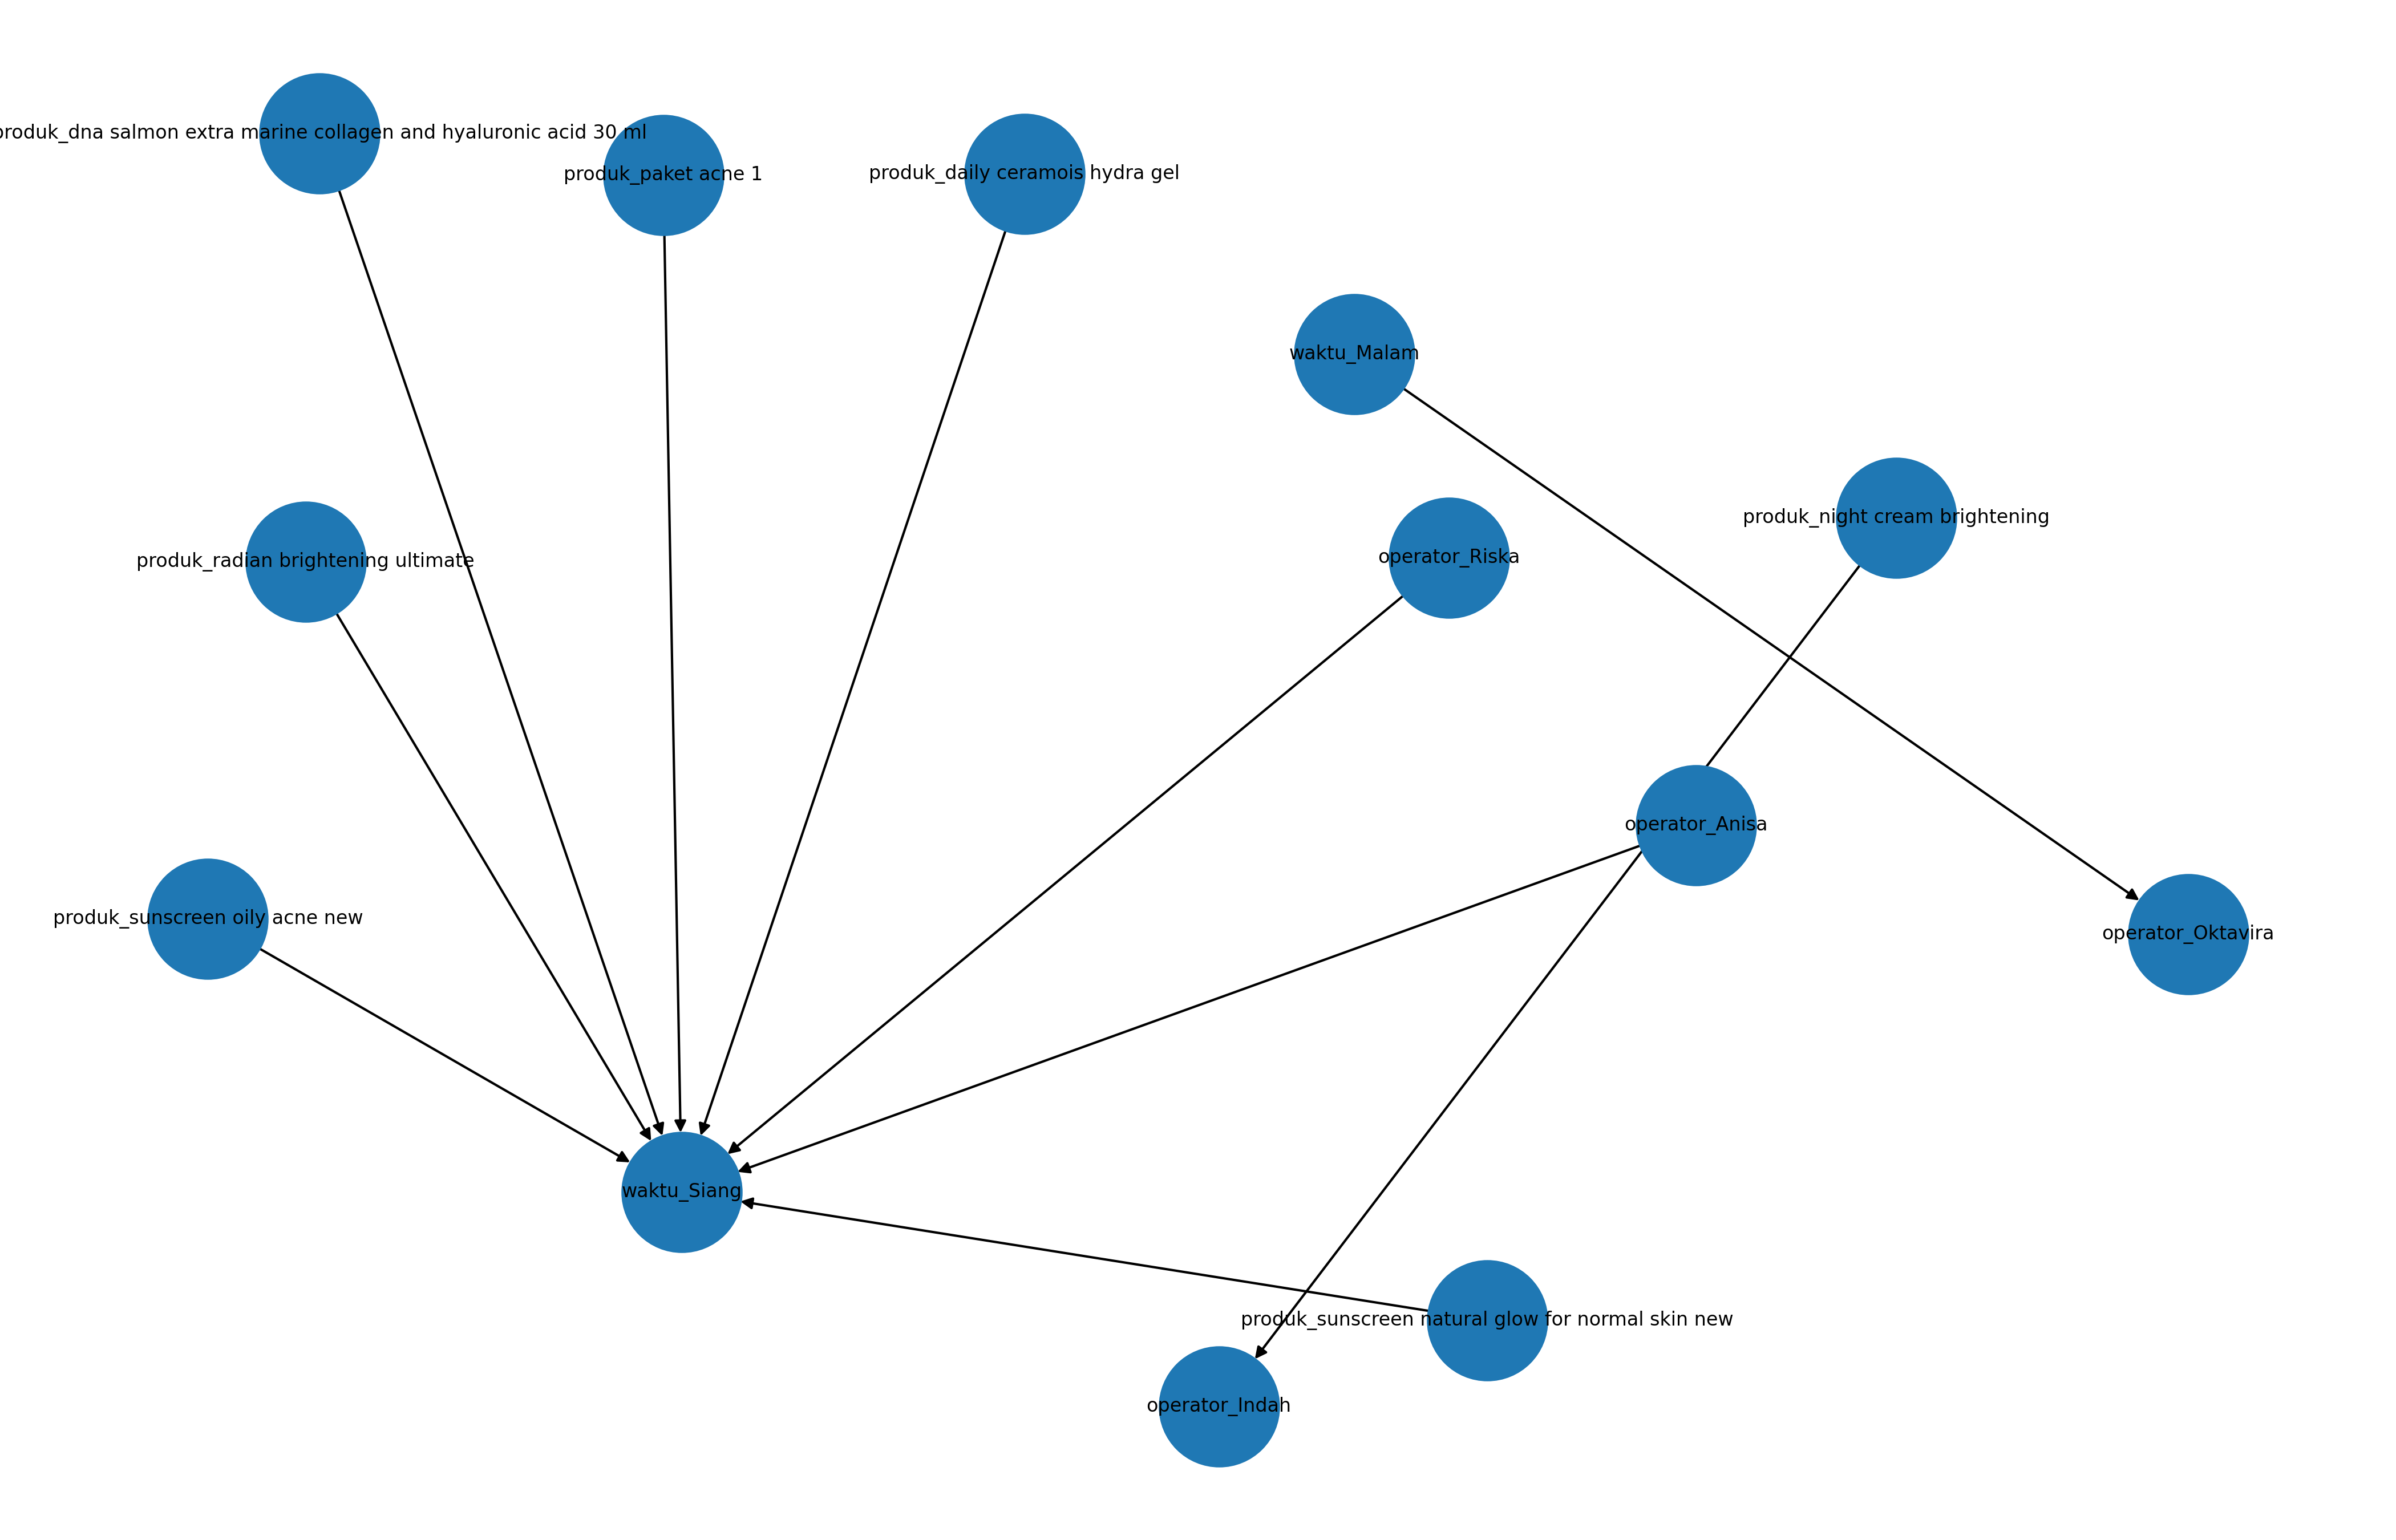
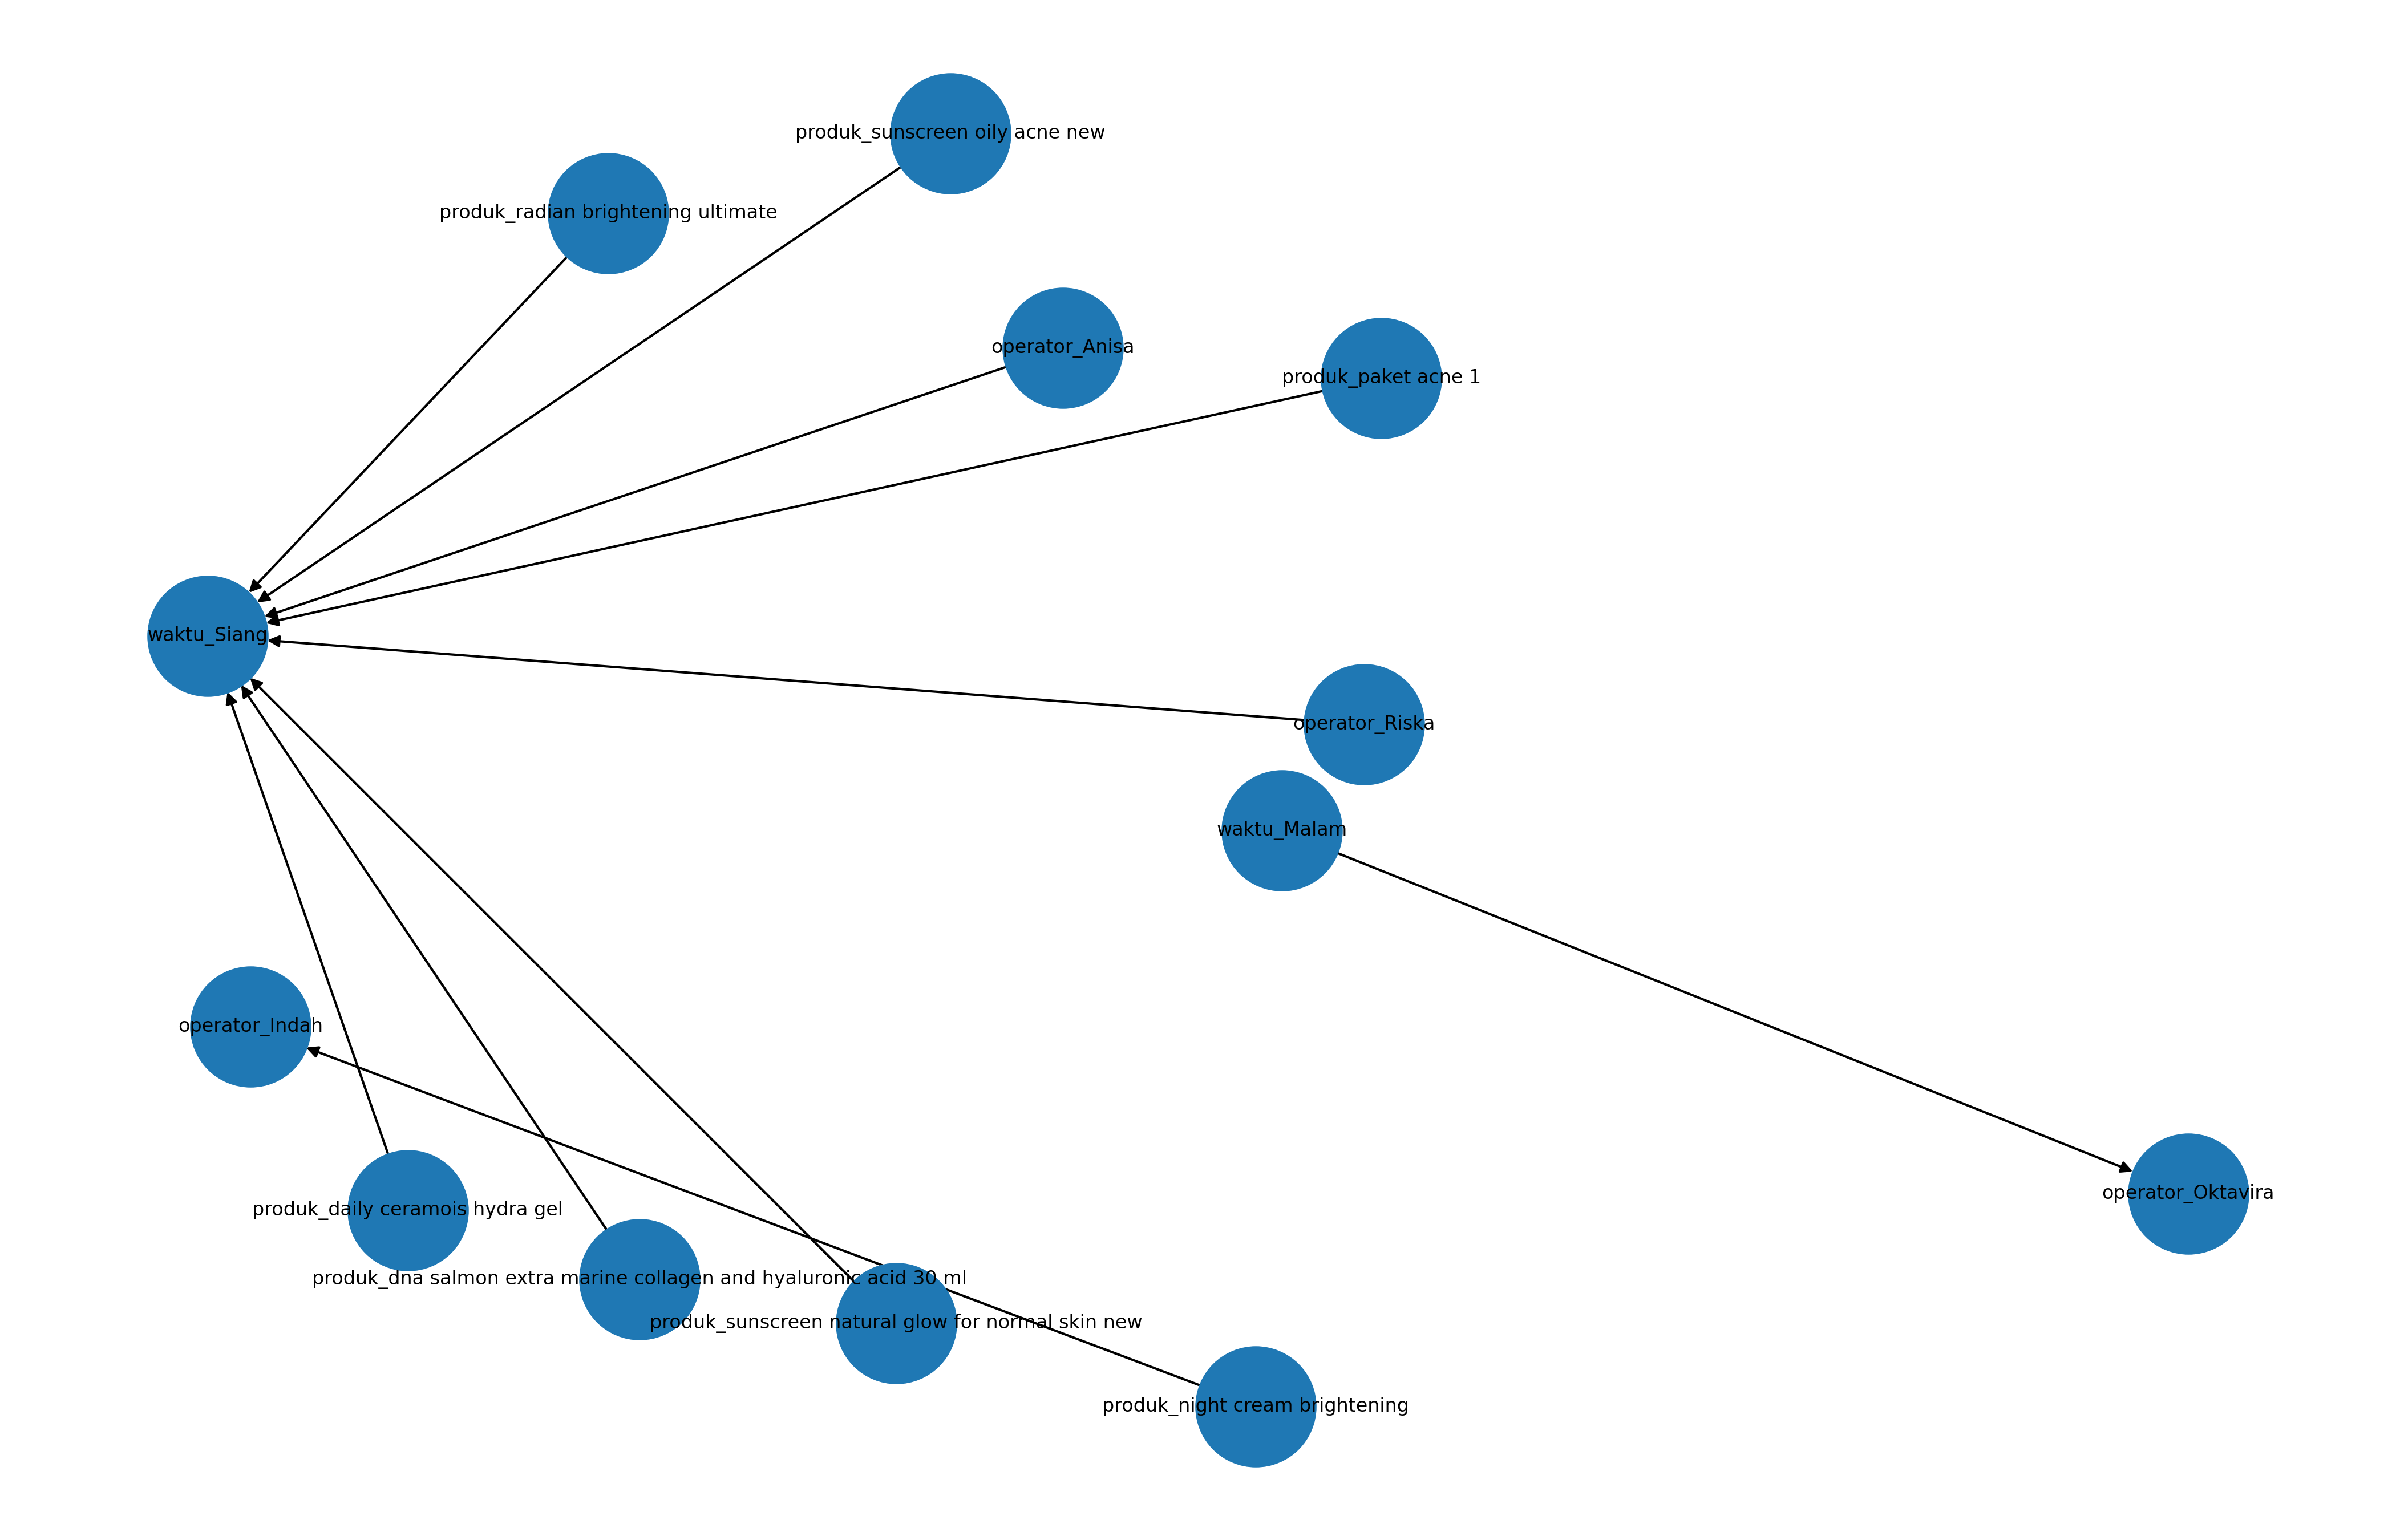
perbaikan penjelasan

diff --git a/preprocessing.py b/preprocessing.py
@@ -8,14 +8,13 @@ select_column = [
     "Tanggal",
     "Waktu",
     "Operator",
-    #"Metode Pembayaran",
     "Detail Produk",
     "Penjualan Bersih"
 ]
 
 df = df[select_column].copy()
 
-print("=== SELECTED COLUMN ===")
+print("---select column---")
 print(df.columns.tolist())
 
 # rename kolom
@@ -24,15 +23,15 @@ df = df.rename(columns={
     "Tanggal": "tanggal",
     "Waktu": "waktu",
     "Operator": "operator",
-    #"Metode Pembayaran": "metode_pembayaran",
     "Detail Produk": "detail_produk",
     "Penjualan Bersih": "penjualan_bersih"
 })
 
-print("=== KOLOM SETELAH RENAME ===")
+print("---column after rename---")
 print(df.columns.tolist())
 
 # Hapus operator yang penjualannya sedikit
+# mengurangi imbalace data yang tidak representatif
 df["operator"] = df["operator"].astype(str).str.strip().str.lower()
 
 operator_dihapus = ["devi", "dina", "owner"]
@@ -43,7 +42,7 @@ print("Jumlah data setelah operator tertentu dihapus:")
 print(df["operator"].value_counts())
 
 # hapus item non-produk
-print("\n=== FILTER PRODUK NON-SKINCARE ===")
+print("\n ---filter produk non skincare---")
 print("Jumlah data sebelum filter non-produk:", df.shape[0])
 
 df["detail_produk"] = df["detail_produk"].astype(str).str.strip()
@@ -56,15 +55,15 @@ df = df[~df["detail_produk"].str.contains(pattern, case=False, na=False)]
 print("Jumlah data sesudah filter non-produk:", df.shape[0])
 
 # missing value
-print("\n=== CEK MISSING VALUE ===")
+print("\n---cek missing value---")
 print(df.isnull().sum())
 
 # duplikat
-print("\n=== CEK DUPLIKAT ===")
+print("\n---check duplicate---")
 print("Jumlah duplikat:", df.duplicated().sum())
 
-# hapus duplikat
-print("\n=== HAPUS DUPLIKAT ===")
+# hapus duplikat setelah select kolom
+print("\n---delete duplicate---")
 print("Jumlah data sebelum hapus duplikat:", df.shape[0])
 
 df = df.drop_duplicates()
@@ -110,11 +109,10 @@ if "tanggal" in df.columns:
 if "penjualan_bersih" in df.columns:
     df["penjualan_bersih"] = pd.to_numeric(df["penjualan_bersih"], errors="coerce")
 
-print("\n=== INFO DATA SETELAH UBAH TIPE ===")
+print("\n---info data setelah perubahan type---")
 print(df.info())
 
 # ubah kategori waktu
-
 df["waktu_parsed"] = pd.to_datetime(df["waktu"], errors="coerce")
 df["jam"] = df["waktu_parsed"].dt.hour
 
@@ -132,11 +130,11 @@ df["kategori_waktu"] = df["jam"].apply(kategori_waktu)
 df["waktu"] = df["waktu_parsed"].dt.strftime("%H:%M")
 df = df.drop(columns=["waktu_parsed", "jam"])
 
-print("\n=== HASIL WAKTU DAN KATEGORI ===")
+print("\n---hasil kategori waktu---")
 print(df[["waktu", "kategori_waktu"]].head(10))
 
 # cleansing hasil refund
-print("\n=== FILTER HASIL REFUND  ===")
+print("\n---filter hasil refund---")
 print("Jumlah data sebelum filter minus:", df.shape[0])
 
 
@@ -145,7 +143,7 @@ df = df[df["penjualan_bersih"] > 0]
 print("Jumlah data sesudah filter minus:", df.shape[0])
 
 # analisis deskriptif produk
-print("\n=== JUMLAH PER PRODUK TERJUAL ===")
+print("\n---jumlah penjualan per produk---")
 produk_rekap = df["detail_produk"].value_counts().reset_index()
 produk_rekap.columns = ["nama_produk", "jumlah_terjual"]
 print(produk_rekap.head())
@@ -154,14 +152,14 @@ produk_rekap = produk_rekap.sort_values(by="jumlah_terjual", ascending=False)
 produk_rekap.to_excel("output/rekap_produk.xlsx", index=False)
 
 # analisis distribusi waktu
-print("\n=== DISTRIBUSI PENJUALAN BERDASARKAN WAKTU ===")
+print("\n---distribusi penjualan berdasarkan waktu---")
 
 waktu_dist = (df["kategori_waktu"].value_counts(normalize=True) * 100).reset_index()
 waktu_dist.columns = ["kategori_waktu", "persentase"]
 print(waktu_dist)
 
 # hitung persentase penjualan per operator
-print("\n=== ANALISIS OPERATOR BERDASARKAN WAKTU ===")
+print("\n---analisis operator berdasarkan waktu---")
 
 operator_waktu = df.groupby(["operator", "kategori_waktu"]).size().reset_index(name="jumlah")
 operator_waktu["persentase"] = operator_waktu.groupby("operator")["jumlah"].transform(lambda x: x / x.sum() * 100)
@@ -170,7 +168,7 @@ operator_waktu = operator_waktu.sort_values(by="jumlah", ascending=False).reset_
 print(operator_waktu.sort_values(by="jumlah", ascending=False).head(20))
 
 # validasi data unik
-print("\n=== RINGKASAN DATA ===")
+print("\n---ringkasan data---")
 print("Jumlah transaksi unik:", df["no_transaksi"].nunique())
 print("Jumlah produk unik:", df["detail_produk"].nunique())
 print("Jumlah operator unik:", df["operator"].nunique())

diff --git a/training.py b/training.py
@@ -5,34 +5,26 @@ from mlxtend.preprocessing import TransactionEncoder
 from mlxtend.frequent_patterns import fpgrowth, association_rules
 
 
-# =========================
-# FOLDER OUTPUT
-# =========================
+# folder output
 OUTPUT_DIR = "output/training_result_databaru"
 os.makedirs(OUTPUT_DIR, exist_ok=True)
 
 
-# =========================
-# PARAMETER UTAMA
-# =========================
+# Parameter utama
 MIN_SUPPORT = 0.01
 MIN_CONFIDENCE = 0.4
 MIN_LIFT = 1.0
 
 
-# =========================
-# SKENARIO TRAINING
-# =========================
+# Skenario Testingh
 skenario_training = {
-    "60_40": "dataset/Dataset Baru/data_training6040.xlsx",
-    "70_30": "dataset/Dataset Baru/data_training7030.xlsx",
-    "80_20": "dataset/Dataset Baru/data_training8020.xlsx"
+    "60_40": "dataset/Split data testing/data_training6040.xlsx",
+    "70_30": "dataset/Split data testing/data_training7030.xlsx",
+    "80_20": "dataset/Split data testing/data_training8020.xlsx"
 }
 
 
-# =========================
-# FUNCTION
-# =========================
+# Functions
 def format_frozenset_to_string(value):
     if isinstance(value, (set, frozenset)):
         return ", ".join(sorted(list(value)))
@@ -119,9 +111,7 @@ def buat_basket(df):
     return basket
 
 
-# =========================
-# MAIN PROGRAM
-# =========================
+# main program
 for nama_skenario, input_file in skenario_training.items():
     print("\n==============================")
     print(f"TRAINING SKENARIO {nama_skenario}")
@@ -276,4 +266,4 @@ for nama_skenario, input_file in skenario_training.items():
         ].head(10)
     )
 
-print("\n=== TRAINING SELESAI ===")
+print("\n---Training Finish---")

diff --git a/lihat_tabel.py b/lihat_tabel.py
@@ -2,24 +2,10 @@
 import pandas as pd
 from IPython.display import display
 
+pd.set_option("display.max_columns", None)
+pd.set_option("display.width", 1000)
+
+df = pd.read_excel("output/testing_result_databaru/ringkasan_testing.xlsx")
+
+display(df)
 # %%
-df = pd.read_excel("output/dataset_gabungan.xlsx")
-
-kolom_tampil = [
-    "No Transaksi",
-    "Tanggal",
-    "Waktu",
-    "Operator",
-    "Metode Pembayaran",
-    "Detail Produk",
-    "Banyak Penjualan",
-    "Penjualan Bersih"
-]
-
-display(df[kolom_tampil].head())
-
-df.info()
-# %%
-df
-# %%
-

diff --git a/gabung_data.py b/gabung_data.py
@@ -8,7 +8,7 @@ folder_path = "dataset/Dataset Baru"
 files = glob.glob(os.path.join(folder_path, "*.xls")) + \
         glob.glob(os.path.join(folder_path, "*.xlsx"))
 
-print("=== PROSES GABUNG DATA ===")
+print("---PROSES GABUNG DATA---")
 print("Folder yang dibaca:", folder_path)
 print("Jumlah file ditemukan:", len(files))
 print("File ditemukan:", files)
@@ -21,9 +21,7 @@ if len(files) == 0:
 
 df_list = []
 
-# ==============================
-# BACA SETIAP FILE
-# ==============================
+# read file
 for file in files:
     print(f"\nMembaca file: {file}")
 
@@ -54,22 +52,19 @@ df_all = pd.concat(df_list, ignore_index=True)
 print("\n=== DATA SEBELUM HAPUS DUPLIKAT ===")
 print(df_all.shape)
 
-# Hapus duplikat
+# Hapus duplikat (transaksi harus tercatat satu kali)
 df_all = df_all.drop_duplicates()
 
-print("\n=== DATA SETELAH HAPUS DUPLIKAT ===")
+print("\n---DATA SETELAH HAPUS DUPLIKAT---")
 print(df_all.shape)
 
-# ==============================
-# INFO DATA
-# ==============================
-print("\n=== SAMPLE DATA ===")
+print("\n---SAMPLE DATA---")
 print(df_all.head())
 
-print("\n=== NAMA KOLOM ===")
+print("\n---NAMA KOLOM---")
 print(df_all.columns)
 
-print("\n=== DATA KOSONG ===")
+print("\n---DATA KOSONG---")
 print(df_all.isnull().sum())
 
 # save
@@ -78,6 +73,6 @@ os.makedirs("output", exist_ok=True)
 output_path = "output/dataset_gabungan_baru.xlsx"
 df_all.to_excel(output_path, index=False)
 
-print("\n=== SELESAI ===")
+print("\n---finish---")
 print(f"Jumlah data akhir: {df_all.shape}")
 print(f"Disimpan di: {output_path}")

diff --git a/testing.py b/testing.py
@@ -9,15 +9,15 @@ MIN_LIFT = 1.0
 skenario_testing = {
     "60_40": {
         "rules": "output/training_result_databaru/rules_training_filtered_60_40.xlsx",
-        "testing": "dataset/Dataset Baru/data_testing6040.xlsx"
+        "testing": "dataset/Split data testing/data_testing6040.xlsx"
     },
     "70_30": {
         "rules": "output/training_result_databaru/rules_training_filtered_70_30.xlsx",
-        "testing": "dataset/Dataset Baru/data_testing7030.xlsx"
+        "testing": "dataset/Split data testing/data_testing7030.xlsx"
     },
     "80_20": {
         "rules": "output/training_result_databaru/rules_training_filtered_80_20.xlsx",
-        "testing": "dataset/Dataset Baru/data_testing8020.xlsx"
+        "testing": "dataset/Split data testing/data_testing8020.xlsx"
     }
 }
 
@@ -116,9 +116,9 @@ def buat_basket_testing(df):
 ringkasan_testing = []
 
 for nama_skenario, file_path in skenario_testing.items():
-    print("\n==============================")
-    print(f"TESTING SKENARIO {nama_skenario}")
-    print("==============================")
+    print("\n-------------------------------")
+    print(f"Testing Skenario {nama_skenario}")
+    print("-------------------------------")
 
     if not os.path.exists(file_path["rules"]):
         print("File rules tidak ditemukan:", file_path["rules"])
@@ -269,7 +269,6 @@ df_ringkasan_testing.to_excel(
     index=False
 )
 
-print("\n==============================")
-print("TESTING SELESAI")
-print("==============================")
+print("\n-------------------------------")
+print("Testing Finish")
 print(df_ringkasan_testing)

diff --git a/split_data.py b/split_data.py
@@ -6,7 +6,7 @@ os.makedirs("dataset", exist_ok=True)
 
 df = pd.read_excel("output/dataset_bersih_baru.xlsx")
 
-print("=== DATASET AWAL ===")
+print("---Dataset Awal---")
 print("Jumlah baris data:", len(df))
 print("Jumlah transaksi:", df["no_transaksi"].nunique())
 
@@ -16,21 +16,21 @@ transaksi_unik = df["no_transaksi"].drop_duplicates()
 
 train_transaksi, test_transaksi = train_test_split(
     transaksi_unik,
-    test_size=0.4,      
+    test_size=0.2,      
     random_state=42
 )
 
 df_training = df[df["no_transaksi"].isin(train_transaksi)].copy()
 df_testing = df[df["no_transaksi"].isin(test_transaksi)].copy()
 
-df_training.to_excel("dataset/Dataset Baru/data_training6040.xlsx", index=False)
-df_testing.to_excel("dataset/Dataset Baru/data_testing6040.xlsx", index=False)
+df_training.to_excel("dataset/Split data testing/data_training8020.xlsx", index=False)
+df_testing.to_excel("dataset/Split data testing/data_testing8020.xlsx", index=False)
 
-print("\n=== HASIL SPLIT DATA ===")
+print("\n---Hasil Split Data---")
 print("Jumlah baris training:", len(df_training))
 print("Jumlah baris testing:", len(df_testing))
 
 print("Jumlah transaksi training:", df_training["no_transaksi"].nunique())
 print("Jumlah transaksi testing:", df_testing["no_transaksi"].nunique())
 
-print("\n FILE TERSIMPAN")
+print("\n---File Tersimpan---")

diff --git a/draft.py b/draft.py
@@ -1,0 +1,6 @@
+import pandas as pd
+from IPython.display import display
+
+df = pd.read_excel("output/frequent_itemsets.xlsx")
+
+display(df.head(10))

diff --git a/model.py b/model.py
@@ -224,6 +224,9 @@ print("Jumlah rules setelah filter:", len(rules_filtered))
 
 rules_filtered.to_excel(OUTPUT_ASSOCIATION_RULES_FILTERED, index=False)
 
+print("Jumlah rules awal :", len(rules))
+print("Jumlah rules filter :", len(rules_filtered))
+
 
 # ANALISIS RULE PER VARIABEL
 # =========================
@@ -288,7 +291,7 @@ print("Jumlah rules produk/operator/waktu:", len(rules_produk_operator_waktu))
 
 # RULE ANOMALI
 # =========================
-print("\n=== RULE ANOMALI ===")
+print("RULE ANOMALI")
 
 rules_anomaly = rules[rules["is_anomaly"] == True].copy()
 
@@ -297,6 +300,7 @@ rules_anomaly = rules_anomaly.sort_values(
     ascending=[True, True, False]
 ).reset_index(drop=True)
 
+print("Jumlah association rules:", len(rules))
 print("Jumlah rules anomali:", len(rules_anomaly))
 
 rules_anomaly.to_excel(OUTPUT_ANOMALY_RULES, index=False)